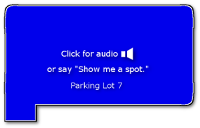
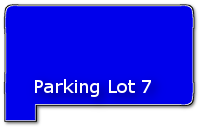
site maintenence
Cleaned up the look a bit.

Changed region(s): [[0.15, 0.625, 0.78, 0.8125], [0.21, 0.375, 0.75, 0.5938]]

diff --git a/WebApp/SeeSpotPark/index.php b/WebApp/SeeSpotPark/index.php
@@ -38,6 +38,8 @@ if($num2==1){
 <body>
 <header class="header" >
 </header>
+<div style="color:black;" >Just say: "<strong>Show me a spot</strong>", and we'll fetch the spot closest to you!</br>
+Click a blue (<img src="images/mini.png" style="width:24px;" />) or red (<img src="images/mini_red.png" style="width:24px;" />) highlighted area and we'll tell you how many spots are available in that lot.</div>
 <div class="main_body" >
 	<div id="map"></div>
 </div>
@@ -81,7 +83,7 @@ function showPosition(position) {
  <script>
       function initMap() {
         var Parking_Lot_F = {lat: 27.526794, lng: -97.878555};
-		var Parking_Lot_7 = {lat: 27.525100, lng: -97.878262};
+		var Parking_Lot_7 = {lat: 27.525213, lng: -97.878262};
 		var label = '<?php print $alert; ?>';
 		var label2 = '<?php print $alert2; ?>';
         var map = new google.maps.Map(document.getElementById('map'), {
